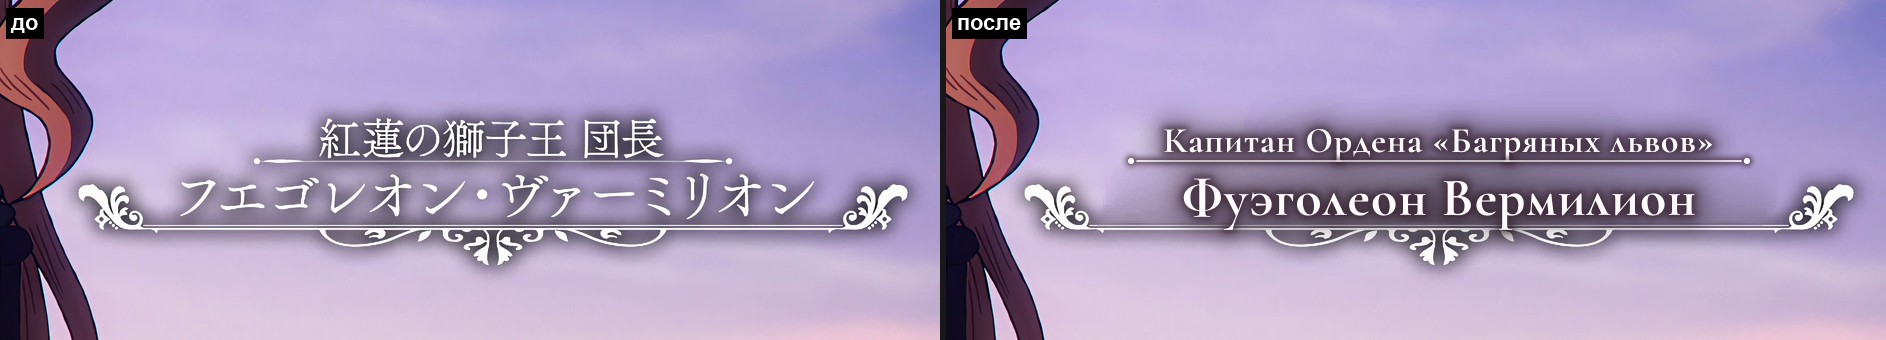
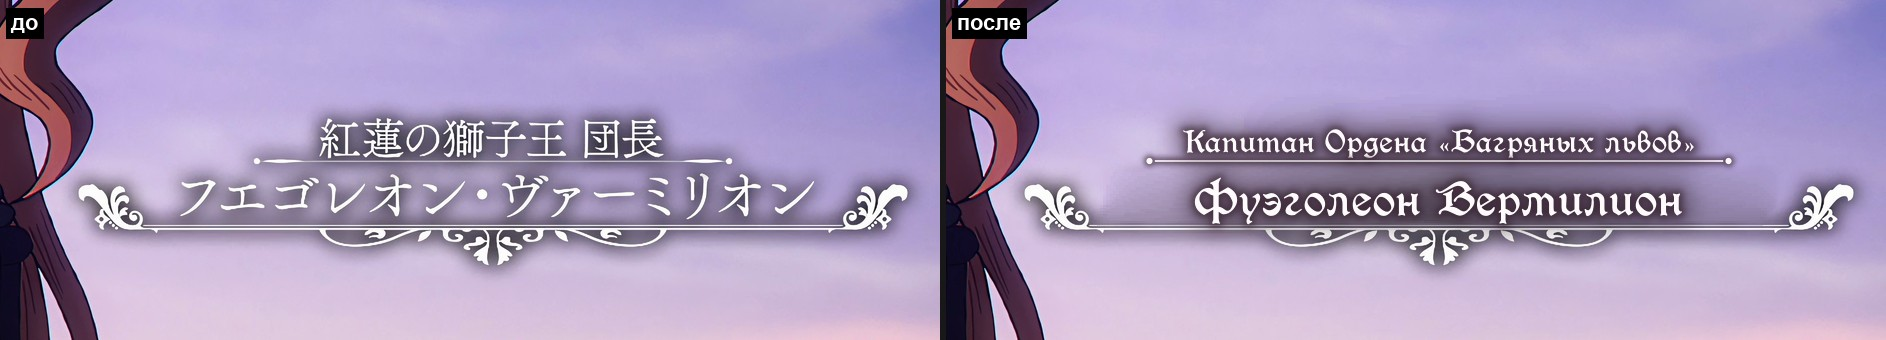
Black Clover 2-01 rebuilt with the new fonts; release fonts without name clashes
- the episode rebuilt from its recipe with Moyenage15SHA / Calligrapher /
  BeaumarchaisC; README before/after images re-rendered from it
- assemble: of several fonts with the style's name only the Cyrillic file of
  the face is shipped (Windows' calligr0.ttf is 'Calligrapher' too, without
  Cyrillic), the clash is reported; italic faces only for italic styles;
  styles named by a PostScript name are found

Changed region(s): [[0.5843, 0.3529, 0.9533, 0.5], [0.6151, 0.5, 0.9226, 0.7059]]

diff --git a/scripts/tslib/assdoc.py b/scripts/tslib/assdoc.py
@@ -143,17 +143,26 @@ def release_fonts(out_path, styles, events):
     for l in styles:
         d = parse_style(l)
         if d["Name"] in used:
-            faces.add((d["Fontname"].lstrip("@"), d["Bold"] not in ("0", 0)))
+            it = d["Italic"] not in ("0", 0)
+            faces.add((d["Fontname"].lstrip("@"), d["Bold"] not in ("0", 0), it))
             for fn in used[d["Name"]]:
-                faces.add((fn, d["Bold"] not in ("0", 0)))
+                faces.add((fn, d["Bold"] not in ("0", 0), it))
     out_dir = os.path.join(os.path.dirname(os.path.abspath(out_path)), "шрифты")
-    copied, missing = [], []
-    for fam, bold in sorted(faces):
-        recs = [r for r in fonts.index() if fam.lower() in (r["family"].lower(), r["tfamily"].lower(), r["full"].lower())]
+    copied, missing, clash = [], [], []
+    for fam, bold, ital in sorted(faces):
+        recs = [r for r in fonts.index() if fam.lower() in (r["family"].lower(), r["tfamily"].lower(),
+                                                            r["full"].lower(), r.get("ps", "").lower())]
         if not recs:
             missing.append(fam); continue
         want = [r for r in recs if r["bold"] == bold] or recs           # the face libass picks, plus its family's
-        for r in {r["path"]: r for r in want}.values():                 # other face if the script fakes bold
+        want = [r for r in want if r["italic"] == ital] or want         # other face if the script fakes bold
+        # another font of the same name without Cyrillic (Windows' calligr0.ttf is 'Calligrapher' too): ship only
+        # the Cyrillic one, one file per face, and say so - a player that prefers system fonts may take the other
+        cyr = [r for r in want if r.get("cyr")]
+        if cyr and len(cyr) < len(want):
+            clash.append(f"{fam} ({', '.join(sorted({os.path.basename(r['path']) for r in want if not r.get('cyr')}))})")
+        want = list({(r["weight"], r["italic"]): r for r in reversed(cyr or want)}.values())
+        for r in want:
             os.makedirs(out_dir, exist_ok=True)
             dst = os.path.join(out_dir, os.path.basename(r["path"]))
             if not os.path.exists(dst) or os.path.getsize(dst) != os.path.getsize(r["path"]):
@@ -163,6 +172,8 @@ def release_fonts(out_path, styles, events):
         print(f"  fonts for the release: {out_dir} <- {', '.join(sorted(set(copied)))}")
     if missing:
         print(f"  fonts NOT found (install or download them, then assemble again): {', '.join(missing)}")
+    if clash:
+        print(f"  same name, no Cyrillic, left out (the release ships the Cyrillic one): {'; '.join(clash)}")
 
 
 def event_key(line):

diff --git a/references/troubleshooting.md b/references/troubleshooting.md
@@ -23,6 +23,7 @@
 | `geometry detection failed` / `geom` не нашёл карточку | светлый фон, нестандартная карточка | `geom_only` + ручные `geom` (с `fl_in`/`fr_in`), `zones`, `glow_box` (меряй `ruler`; см. config.md) |
 | Файл огромный | много отрезков/цветов | `block` 4, `maxK` 28–40, `rect_clip` (path), `tau` 5 |
 | Шрифт «не тот» в рендере | шрифт не установлен или имя семьи другое | `TS fonts --grep`; поставить шрифт / положить в `font_dirs`; имя в стиле = family name |
+| В плеере русский текст запасным шрифтом, а в чеке всё верно | в системе есть другой шрифт с тем же именем без кириллицы (Windows `calligr0.ttf` — тоже «Calligrapher») | `assemble` кладёт в `шрифты/` только файл с кириллицей и пишет `same name, no Cyrillic, left out`; шрифты из `шрифты/` — вложениями в mkv (libass берёт вложения раньше системных) |
 | Установленный `.otf` в рендере стал Arial (Arno Pro, Garamond Premier Pro) | libass на Windows (DirectWrite) находит некоторые CFF-шрифты только по PostScript-имени | имя в стиле — то, что печатает `TS fonts --match --with` (`ArnoPro-Regular10pt`, проверено через libass: `fontlib.libass_name`) |
 | Гладкие прямоугольники на текстуре (сетка экрана, кирпич) | `inpaint` не умеет текстуру | если есть кадры без текста — `clean.mode: ref`; иначе минимальная маска (`dil` меньше) и смириться, или `text` без маски; (идея на будущее: заливка периодической текстурой) |
 | Тёмный текст не стирается вообще | маска ищет светлые глифы | `detect.polarity: "dark"`, подбери `thr`/`maxc` |
